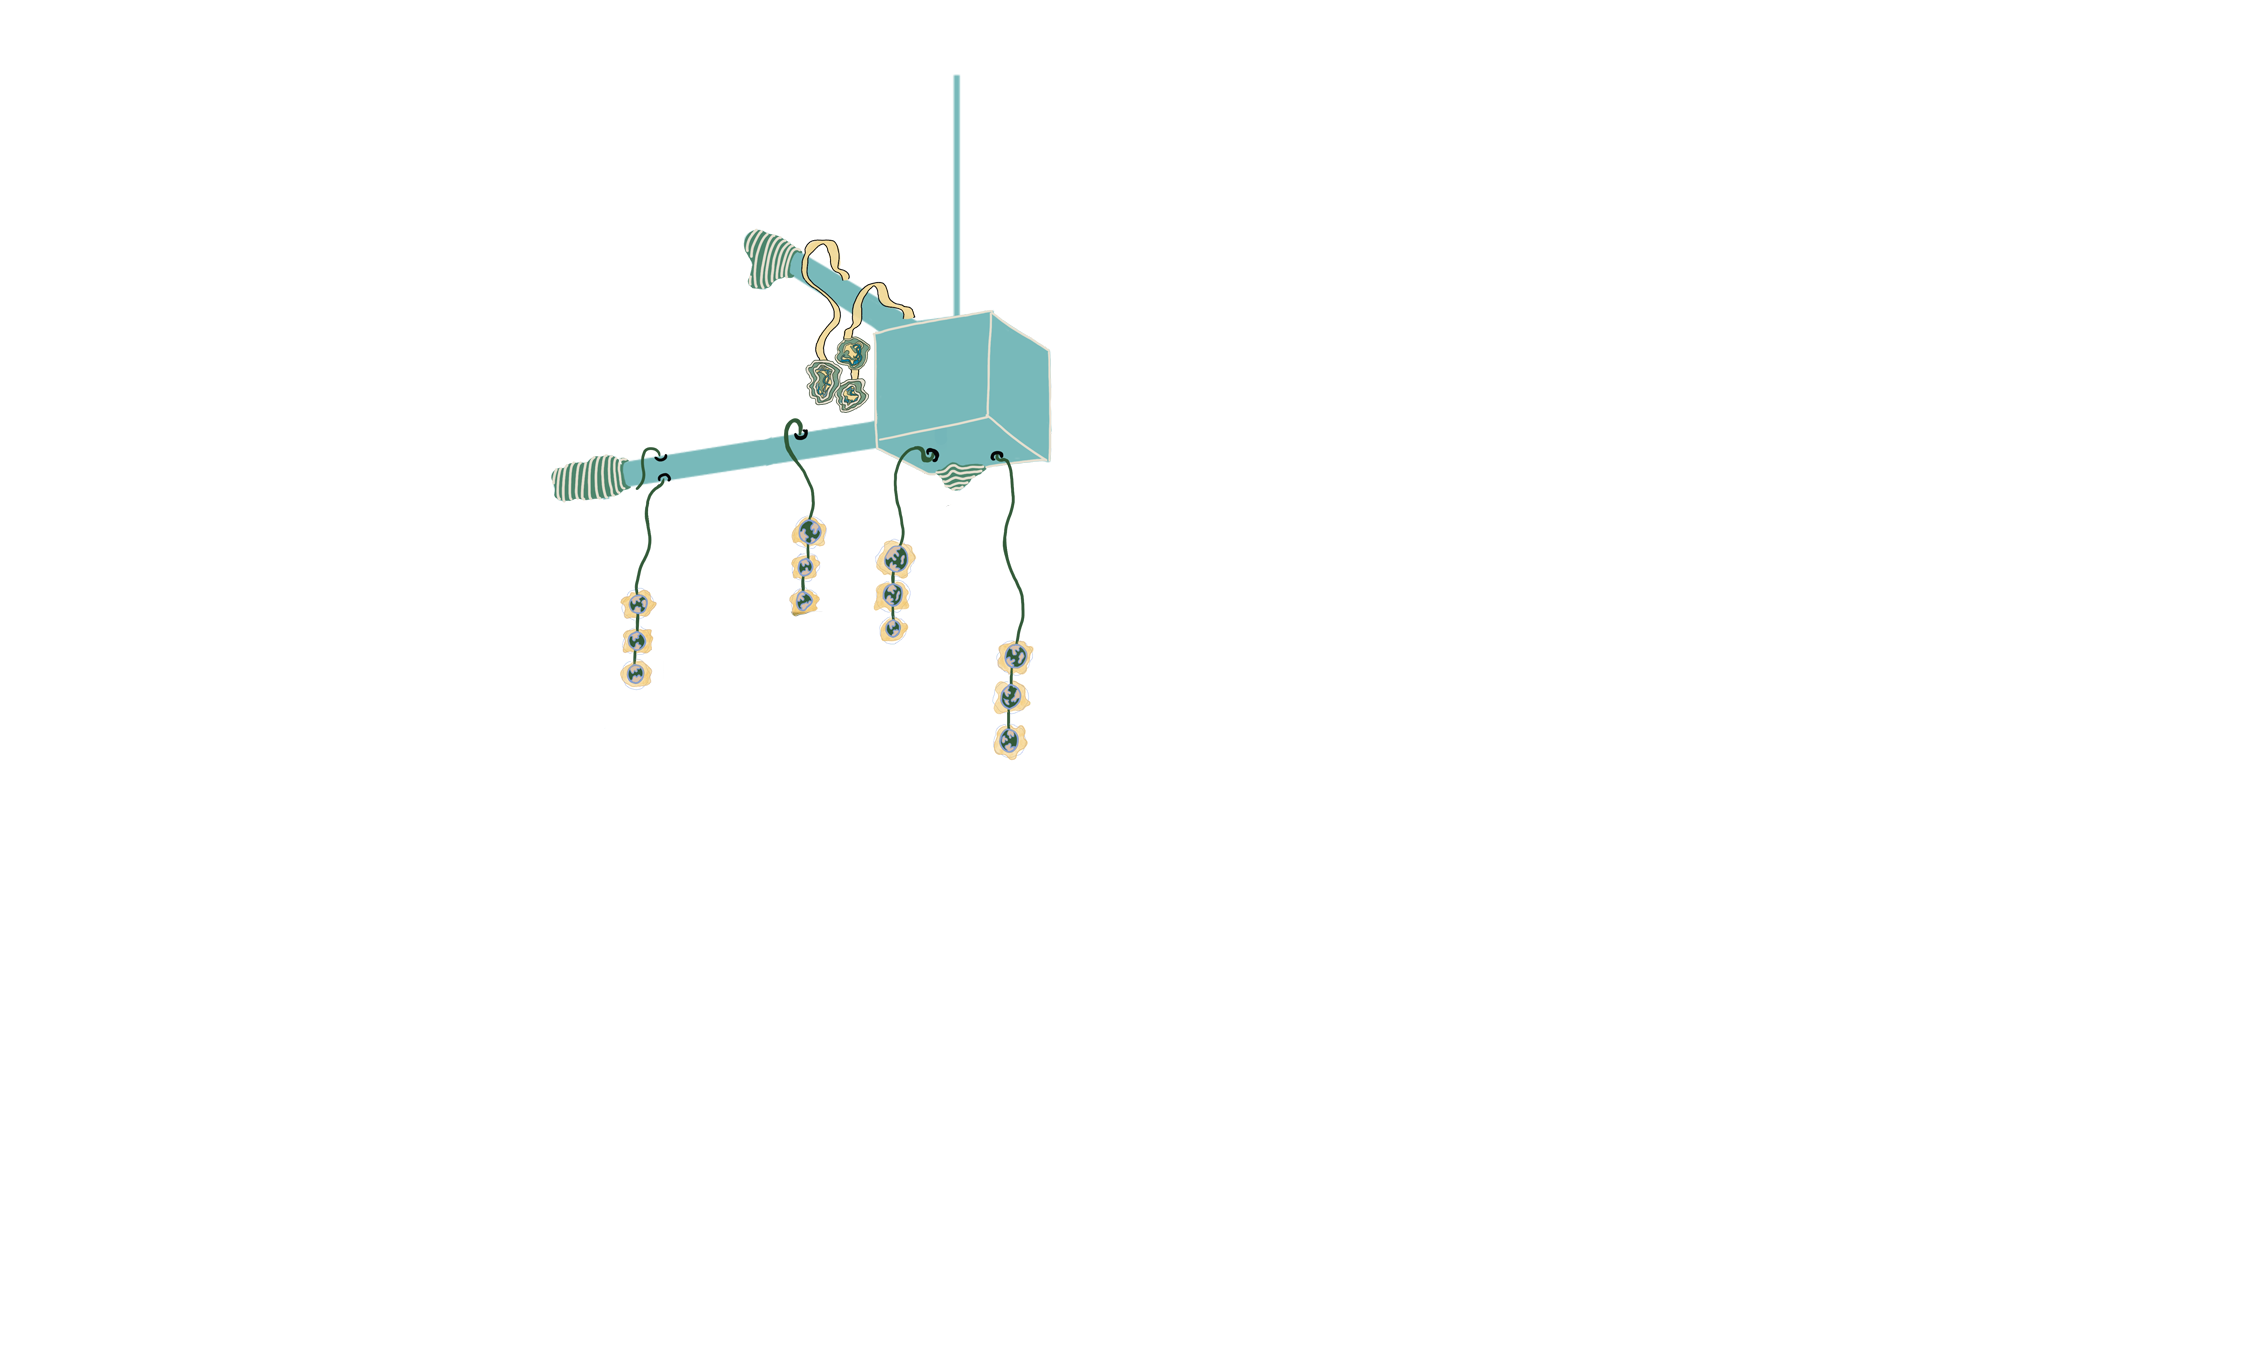
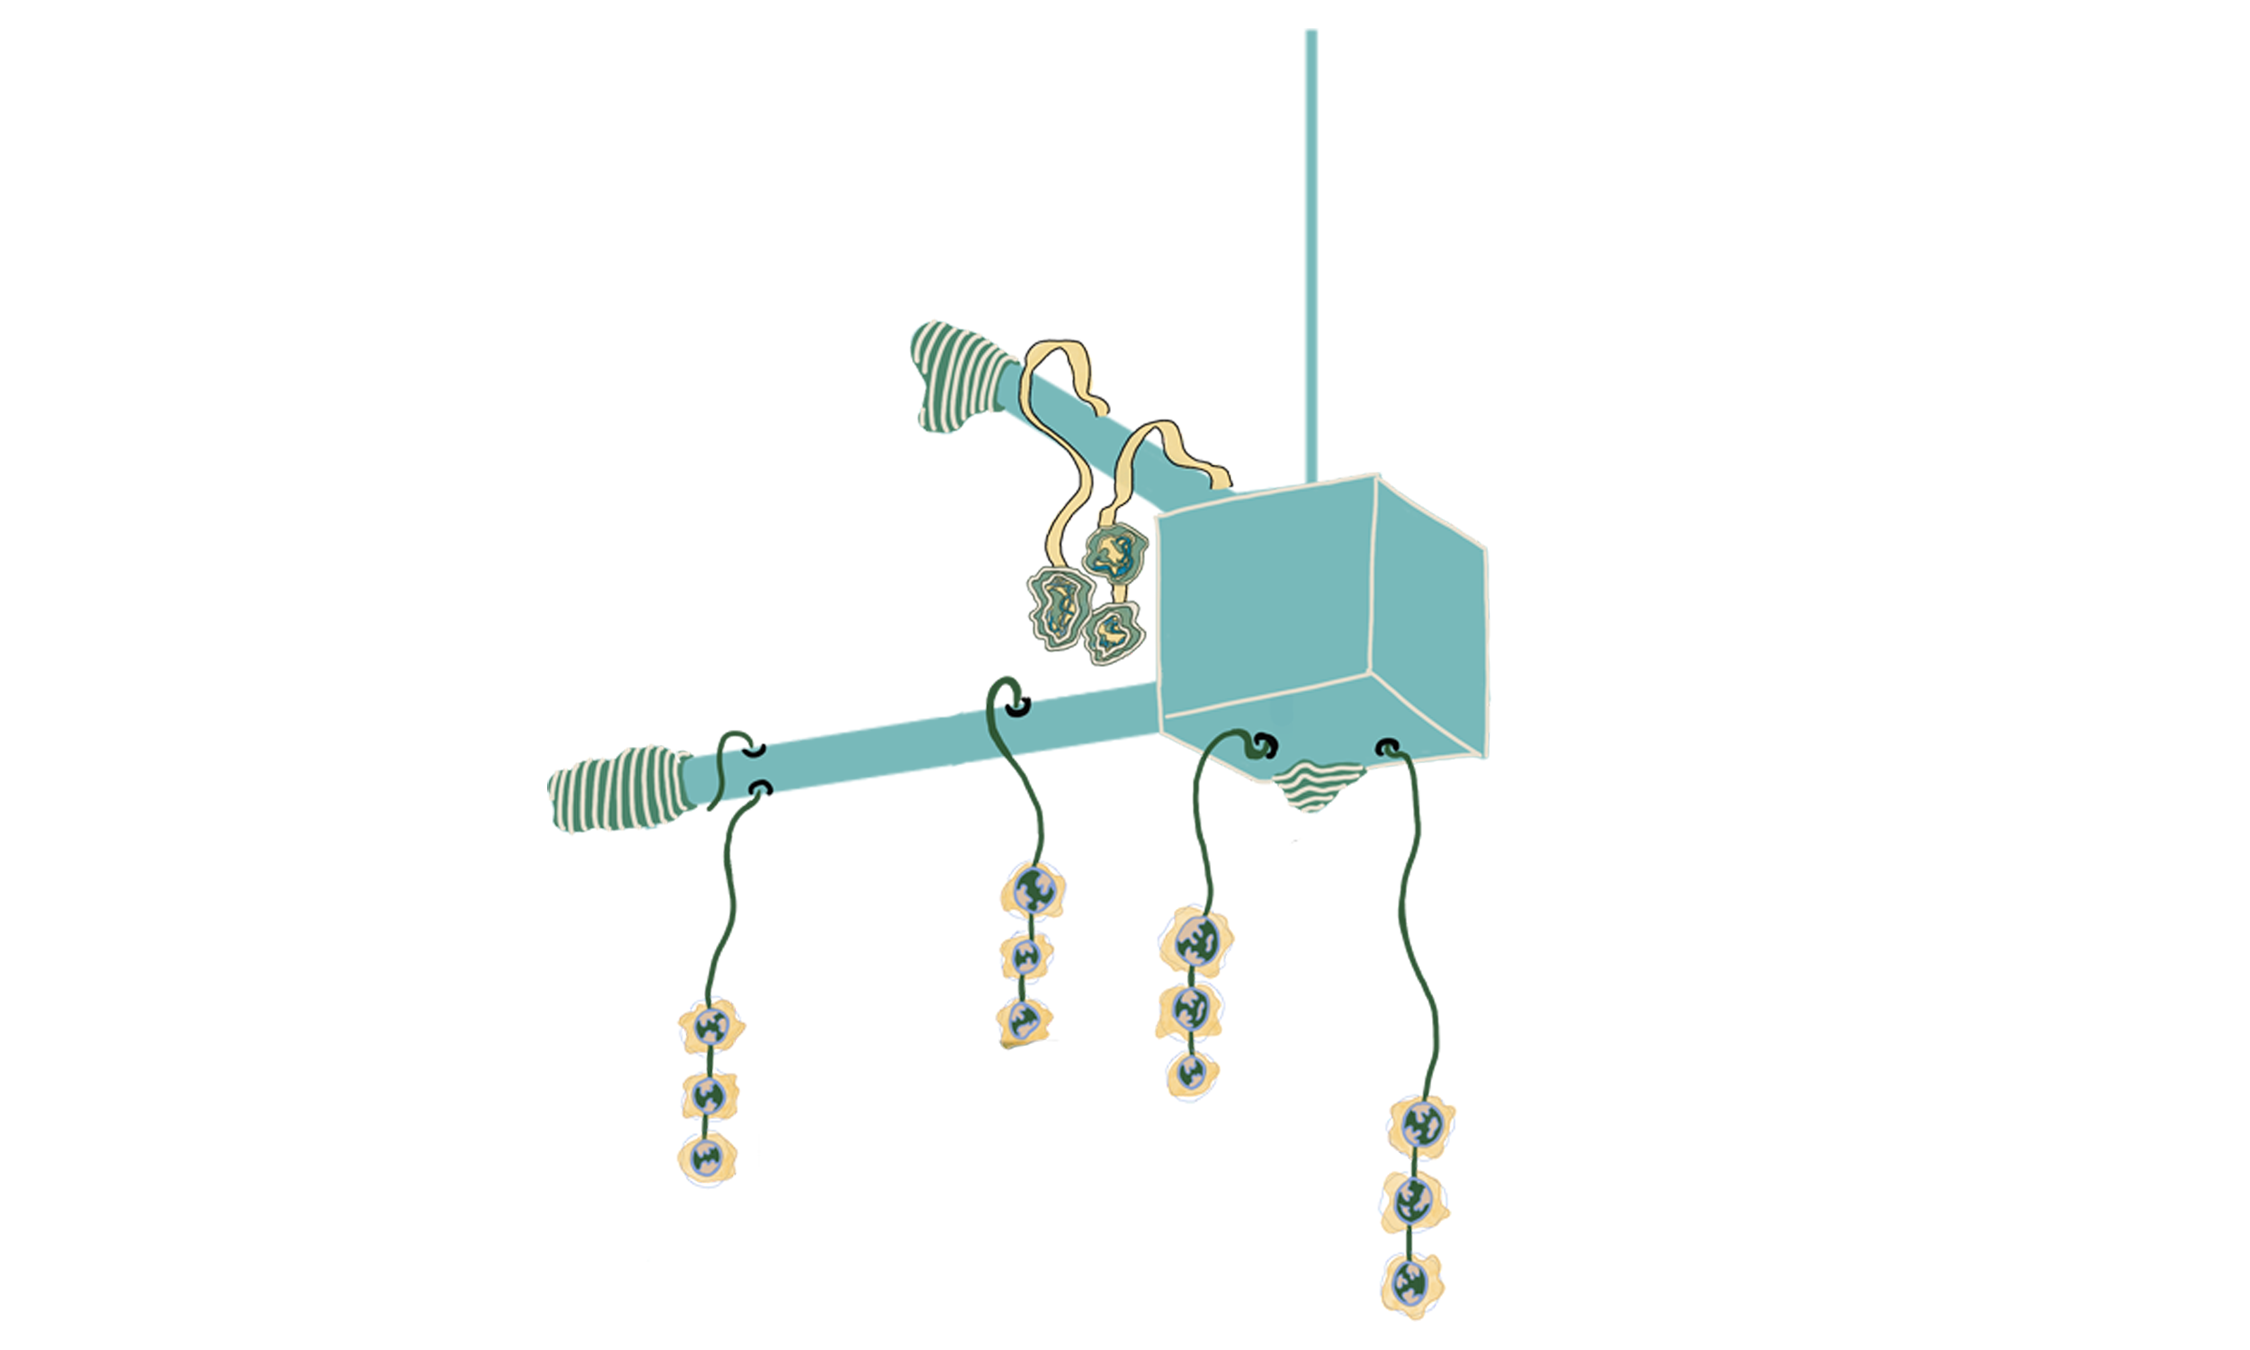
version 01

Changed region(s): [[0.2178, 0.0311, 0.6844, 0.8711], [0.5911, 0.6844, 0.6533, 0.9956], [0.3422, 0.3733, 0.4044, 0.4667]]

diff --git a/index.html b/index.html
@@ -117,7 +117,7 @@
 @keyframes hvr-pulse-grow {
   to {
  
-    transform: scale(1.1);
+    transform: scale(1.6);
     
   }
 }
@@ -134,8 +134,35 @@
 
 .png{
   position: absolute;
-  top: 50%;
-  left: 50%;
+  top: 30%;
+  left: 54%;
+  z-index: 4; 
+   animation-name: spinner;
+         animation-timing-function: linear;
+        animation-iteration-count: infinite;
+        animation-duration: 6s;
+      -moz-transform-style: preserve-3d;
+      opacity: 100%;
+
+}
+
+.png2{
+  position: absolute;
+  top: 40%;
+  left: 29%;
+  z-index: 4; 
+   animation-name: spinner;
+         animation-timing-function: linear;
+        animation-iteration-count: infinite;
+        animation-duration: 6s;
+      -moz-transform-style: preserve-3d;
+      opacity: 100%;
+
+}
+.png3{
+  position: absolute;
+  top: 32%;
+  left: 45%;
   z-index: 4; 
    animation-name: spinner;
          animation-timing-function: linear;
@@ -152,12 +179,14 @@ from {
       -moz-transform: rotateY(0deg);
       -ms-transform: rotateY(0deg);
       transform: rotateY(0deg);
+          
       z-index: 4; 
     }
     to {
       -moz-transform: rotateY(-360deg);
       -ms-transform: rotateY(-360deg);
       transform: rotateY(-360deg);
+
       z-index: 4;
     }
     }
@@ -176,14 +205,18 @@ from {
 	
 	<div class="mobile">
 		<a href="room2.html">
-	<img src="mobile.png" height="850px" width="850px">
+	<img src="mobile.png" height="950px" width="1250px">
 </a>
   </div>
 <div class="png">
-  <img src="piece2.png" height="200px" width="200px">
+  <img src="piece2.png" height="100px" width="100px">
 </div>
-
-
+<div class="png2">
+  <img src="piece2.png" height="100px" width="100px">
+</div>
+<div class="png3">
+  <img src="piece1.png" height="150px" width="150px">
+</div>
 	<section id="container">
   <div id="room">
     <figure class="n"></figure>

diff --git a/room4.html b/room4.html
@@ -96,10 +96,11 @@
 }
 
 .mobile{ position: absolute;
-	top:  40%;
-	left:5%;
+	top:  50%;
+	left:17%;
 	z-index: 3;
-	transform: rotateZ(-320deg);
+	transform: rotateZ(-398deg);
+   transition-duration:  0.3s; 
 }
 
 .audio{
@@ -108,6 +109,61 @@
 	left: 5%;
 	position: absolute;
 	z-index: 0; 
+}
+
+.png{
+    position: absolute;
+  top: 50%;
+  left: 32%;
+  z-index: 4; 
+  transform: rotateZ(-200deg);
+transition: all .2s ease-in-out;
+
+
+     
+}
+.png2{
+    position: absolute;
+  top: 50%;
+  left: 10%;
+  z-index: 2; 
+  transform: rotateZ(-200deg);
+  animation: mover 1s infinite  alternate;
+}
+.png3{
+    position: absolute;
+  top: 30%;
+  left: 10%;
+  z-index: 2; 
+  transform: rotateZ(-200deg);
+
+}
+.mobile:hover{
+  animation-name: spin;
+  animation-duration: 5000ms;
+  animation-iteration-count: infinite;
+  animation-timing-function: linear; 
+}
+
+
+  
+   
+.png:hover { transform: scale(1.1); }
+
+
+@keyframes spin {
+    from {
+        transform:rotate(0deg);
+    }
+    to {
+        transform:rotate(360deg);
+    }
+}
+
+
+@keyframes mover {
+    0% { transform: translateY(0); }
+    100% { transform: translateY(-10px); }
 }
 
 
@@ -122,8 +178,19 @@
 	</style>
 </head>
 <body>
+  <div class="png3">
+    <img src="room44.png" height="400px" width="450px">
+  </div>
+  <div class="png">
+    <img src="room42.png" height="400px" width="450px">
+  </div>
+    <div class="png2">
+    <img src="room34.png" height="400px" width="450px">
+  </div>
 	<div class="mobile">
-	<img src="room4.png" height="950px" width="1250px">
+    <a href="index.html">
+	<img src="room4.png" height="450px" width="750px">
+</a>
 	</div>
 	<section id="container">
   <div id="room">

diff --git a/room3.html b/room3.html
@@ -96,8 +96,8 @@
 }
 
 .mobile{ position: absolute;
-	top:  20%;
-	left:3%;
+	top:  30%;
+	left:10%;
 	z-index: 3;
 	transform: rotateZ(50deg);
 
@@ -113,6 +113,53 @@
 	z-index: 0; 
 }
 
+.png{
+    position: absolute;
+  top: 40%;
+  left: 40%;
+  z-index: 2; 
+  transform: rotateZ(-200deg);
+  
+}
+
+.png2{
+    position: absolute;
+  top: 40%;
+  left: 30%;
+  z-index: 4; 
+  transform: rotateZ(-260deg);
+  transition: all .2s ease-in-out;
+}
+
+
+.png3{
+    position: absolute;
+  top: 10%;
+  left: 50%;
+  z-index: 2; 
+  transform: rotateZ(-110deg);
+  transition: all .2s ease-in-out;
+}
+
+.png2:hover { transform: scale(1.1); }
+.png3:hover { transform: scale(1.5); }
+
+.mobile:hover{
+  animation-name: spin;
+  animation-duration: 5000ms;
+  animation-iteration-count: infinite;
+  animation-timing-function: linear; 
+}
+
+
+@keyframes spin {
+    from {
+        transform:rotate(0deg);
+    }
+    to {
+        transform:rotate(360deg);
+    }
+}
 
 
 
@@ -127,9 +174,18 @@
 	</style>
 </head>
 <body>
+  <div class="png">
+    <img src="room32.png" height="400px" width="550px">
+  </div>
+    <div class="png2">
+    <img src="room33.png" height="400px" width="450px">
+  </div>
+     <div class="png3">
+    <img src="room43.png" height="400px" width="450px">
+  </div>
 	<div class="mobile">
 		<a href="room4.html">
-	<img src="room3.png" height="1250px" width="1590px">
+	<img src="room3.png" height="1050px" width="1590px">
 </a>
 	</div>
 	<section id="container">

diff --git a/room2.html b/room2.html
@@ -107,13 +107,14 @@
 }
 
 .mobile{ position: absolute;
-	top: 70%;
-	left: 20%;
+	top: 85%;
+	left: 40%;
 	height: 50vh;
 	width: 50vw;
 	z-index: 3;
 	transform: rotateZ(-200deg);
-  
+    
+
 	
 }
 
@@ -126,7 +127,55 @@
 }
 
 
+.png{
+    position: absolute;
+  top: 39%;
+  left: 30%;
+  z-index: 1; 
+  transform: rotateZ(-220deg);
+  animation-name: spin;
+  animation-duration: 5000ms;
+  animation-iteration-count: infinite;
+  animation-timing-function: linear; 
+  
+}
 
+
+.png2{
+    position: absolute;
+  top: 30%;
+  left: 15%;
+  z-index: 4; 
+  transform: rotateZ(-350deg);
+    transition-duration: 0.3s;
+
+ 
+}
+
+.png2:hover, .png2:focus, .png2:active {
+ 
+  animation-name: hvr-pulse-grow;
+ 
+  animation-duration: 3s;
+  
+  
+   
+}
+@keyframes hvr-pulse-grow {
+  to {
+ 
+    transform: scale(1.1);
+    
+  }
+}
+@keyframes spin {
+    from {
+        transform:rotate(0deg);
+    }
+    to {
+        transform:rotate(360deg);
+    }
+}
 
 @keyframes hspinner {
   from {
@@ -139,6 +188,13 @@
 	</style>
 </head>
 <body>
+
+    <div class="png2">
+    <img src="room23.png" height="550px" width="650px">
+  </div>
+  <div class="png">
+    <img src="room22.png" height="350px" width="350px">
+  </div>
 	<div class="mobile">
 		<a href="room3.html">
 	<img src="room2.png" height="950px" width="1250px">
